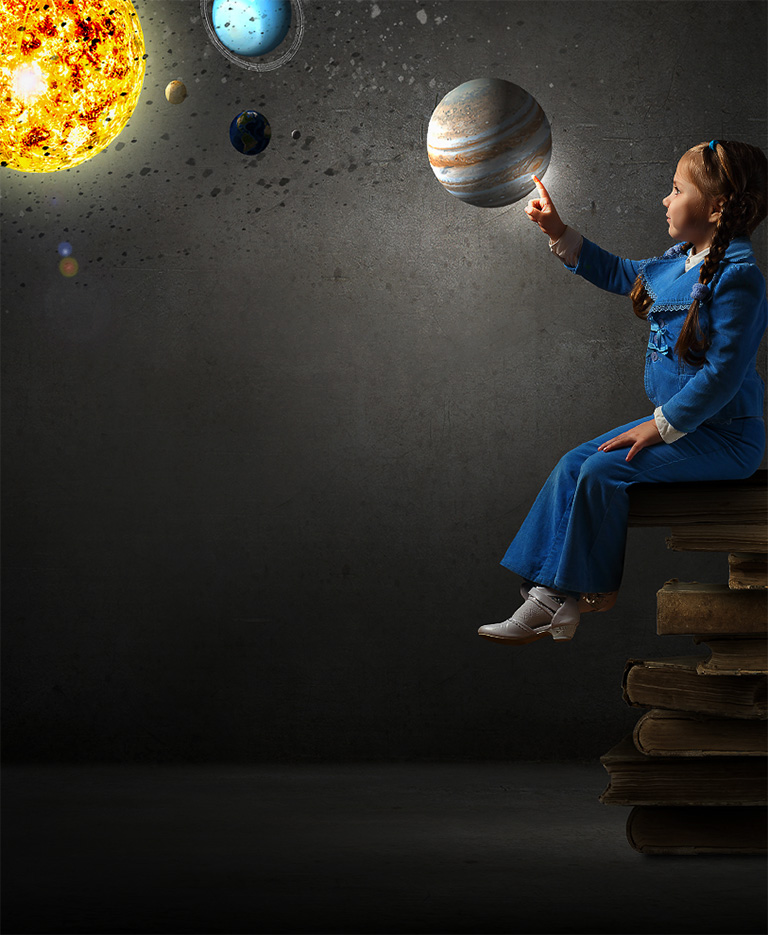
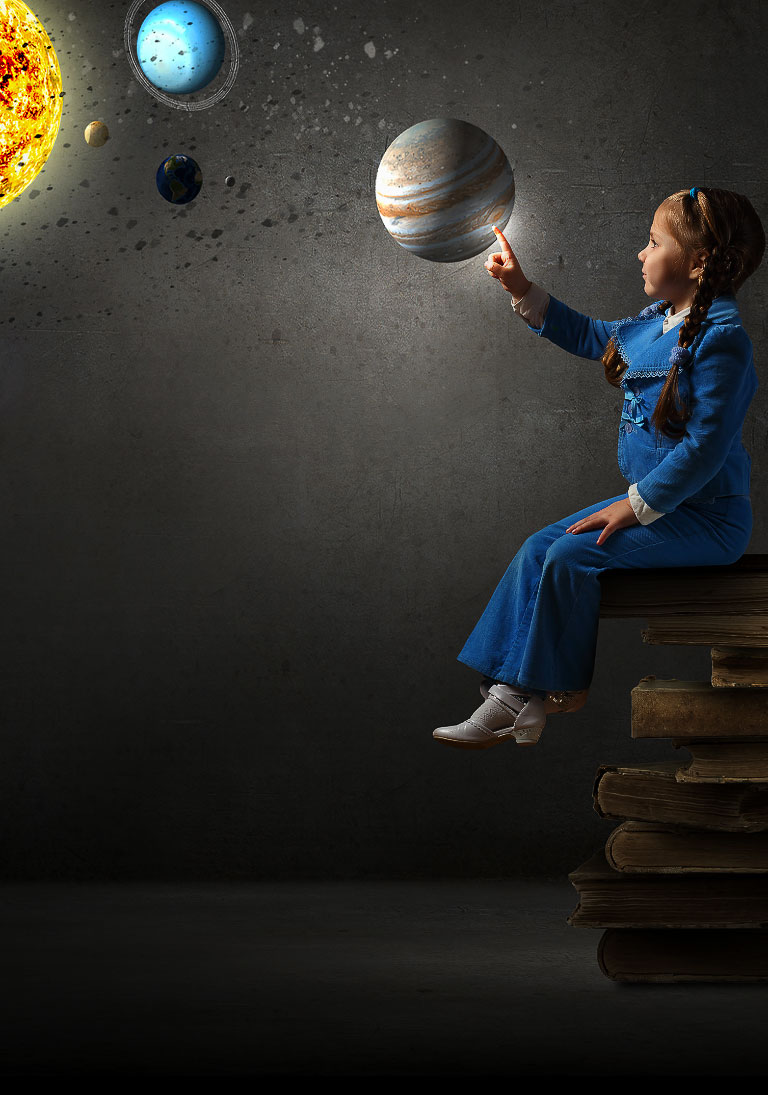
saving in case of power outage

diff --git a/css/stylesheet.css b/css/stylesheet.css
@@ -1,8 +1,33 @@
+
+/*?--------CSS RESET------------*/
+/*?-----------------------------*/
+html, body, div, span, applet, object, iframe,
+h1, h2, h3, h4, h5, h6, p, blockquote, pre,
+a, abbr, acronym, address, big, cite, code,
+del, dfn, em, img, ins, kbd, q, s, samp,
+small, strike, strong, sub, sup, tt, var,
+b, u, i, center,
+dl, dt, dd, ol, ul, li,
+fieldset, form, label, legend,
+table, caption, tbody, tfoot, thead, tr, th, td,
+article, aside, canvas, details, embed, 
+figure, figcaption, footer, header, hgroup, 
+menu, nav, output, ruby, section, summary,
+time, mark, audio, video {
+	margin: 0;
+	padding: 0;
+	border: 0;
+  vertical-align: baseline;
+  list-style-type: none;
+  text-decoration: none;
+}
+
 /*!------------ Universal Fixes ---------------- */
 /*!----------------------------------------------*/
 html {
   box-sizing: border-box;
   font-size: 16px;
+  font-family: var(--exo);
 }
 *,
 *:before,
@@ -13,7 +38,7 @@ html {
 /* Color styles (extracted from Figma)*/
 :root {
   --white: rgba(239, 239, 239, 1);
-  --black: rgba(13, 19, 23, 1);
+  --black: rgba(21, 29, 34, 1);
   --orange: rgba(234, 134, 43, 1);
   --turquoise: rgba(0, 255, 204, 1);
   --turquoise-dark: rgba(52, 183, 167, 1);
@@ -21,7 +46,7 @@ html {
   --whitetrans: rgba(239, 239, 239, 0.7);
   --blacktrans: rgba(49, 54, 58, 0.8);
   /* Text style */
-  --exo: "Exo 2", Arial, sans-serif;
+  --exo: "Exo 2", Arial, sans-serif; /* Fallbacks in-case clamp doesnt work */
   --footertos: 0.875rem;
   --h1: 2.5rem;
   --h2: 2rem;
@@ -32,7 +57,26 @@ html {
   --footerbody: 0.875rem;
   --buttontext: 1.125rem;
 } 
-@media only screen and (min-width: 768px) {
+@media only screen and (min-width: 768px) { /* Fallbacks in-case clamp doesnt work */
+  :root {
+    --h1: 3.679rem;
+    --h2: 2.519rem;
+    --h3: 1.782rem;
+    --h4: 1.571rem;
+    --h5: 1.383rem;
+    --bodytext: 1.125rem;
+    --footerbody: 1rem;
+    --buttontext: 1.25rem;
+  }
+}
+@media only screen and (min-width: 1368px) { /* Fallbacks in-case clamp doesnt work */
+  :root {
+    --h1: 5.625rem;
+    --h2: 3.375rem;
+    --h3: 2.25rem;
+    --h4: 1.688rem;
+    --h5: 1.5rem;
+  }
 }
 @supports (font-size: clamp(1rem, 2vw, 3rem)) {
   :root {
@@ -47,15 +91,12 @@ html {
   }
 }
 
-
+/*? Font Styling */
 
 h1 {
-  font-family: var(--exo);
   font-size: var(--h1);
   font-weight: 800;
-  color: var(--black);
   line-height: 82.69%;
-  letter-spacing: 0.02em;
 }
 
 h1 > span {
@@ -63,56 +104,120 @@ h1 > span {
   letter-spacing: 0.045em;
 }
 h2 {
-  font-family: var(--exo);
   font-size: var(--h2);
   font-weight: 800;
-  letter-spacing: 0.02em;
 }
 h3 {
-  font-family: var(--exo);
   font-size: var(--h3);
   font-weight: 700;
-  letter-spacing: 0.02em;
 }
 h4 {
-  font-family: var(--exo);
   font-size: var(--h4);
   font-weight: 700;
-  letter-spacing: 0.015em;
 }
-.page-container {
-  margin: 0 auto 0 auto;
-  width: 100vw;
+h5 {
+  font-size: var(--h5);
+  font-weight: 600;
+}
+a {
+  color: inherit;
+  font-size: var(--buttontext);
+  font-weight: 600;
+}
+span {
+  font-size: inherit;
+  font-weight: inherit;
+  line-height: inherit;
+}
+.buttontext {
+  font-size: var(--buttontext);
+  font-weight: 700;
+  line-height: 160%;
+}
+p {
+  font-size: var(--bodytext);
+  font-weight: 400;
+  line-height: 166.7%;
+}
+.footerbody {
+  font-size: var(--footerbody);
+}
+h1, h2, h3, h4, h5, .buttontext {
+  letter-spacing: 0.02em;
+}
+/*? Universal Components */
+/* To align content along the same linearly scaling margin*/
+.section-container {
+  padding: 0 15px; /* Fallback for Firefox Android & Opera Android */
+  padding: 0 clamp(15px, -20.6672px + 9.9074vw, 122px);  
+  margin: 0 auto;
+  width: 100%;
   max-width: 1440px;
+  
 }
-
-.content-container {
-  padding: 0 clamp(15px, -1.2917rem + 9.9074vw, 122px) 0;
+/* Buttons */
+.cta {
+  color: var(--black);
+  display: flex;
+  justify-content: space-between;
+  align-items: center;
+  padding: 10px 20px; /* Fallback for Firefox Android & Opera Android */
+  padding: clamp(10px, 8.3328px + 0.4630vw, 15px) 20px;
+}
+.cta--turq {
+  background-color: var(--turquoise);
+}
+.cta--turq i {
+  margin-left: 20px;
+}
+.cta--orange {
+  background-color: var(--orange);
 }
 
 /*!----------HEADER------------*/
-nav {
+header {
   background-color: var(--black);
+  width: 100vw;
+}
+.navblock {
   display: flex;
   justify-content: space-between;
   align-items: center;
 }
-nav > img {
-  height: clamp(27.59px, 6.51vw, 50px);
+.navblock__logo {
+  height: 27.59px; /* Fallback for Firefox Android & Opera Android */
+  height: clamp(27.59px, 19.344px + 2.1289vw, 50px);
   width: auto;
+}
+.navblock__list {
+  color: var(--white);
+}
+/* Dropdown menu checkbox hack */
+#hamburger {
+  display: none;
 }
 
 /*!------------MAIN-------------*/
-.herowrap {
-  height: clamp(438px, 17.5467rem + 43.7037vw, 910px);
+
+.herobanner {
   width: 100%;
-  max-width: 1440px;
+  margin: 0 auto;
+  display: grid;
+  grid-template-areas: "hero";
 }
-.imagegradient {
+.herobanner--home .herobanner__imagewrap {
+  height: 513px; /* Fallback for Firefox Android & Opera Android */
+  height: clamp(513px, 380.5872px + 36.7704vw, 910px);
+  grid-area: hero;
+}
+.herobanner__gradient { /* To position gradient over image */
+  width: 100%;
+  height: 100%;
   position: relative;
   display: inline-block;
 }
-.imagegradient::after {
+
+.herobanner__gradient::after {
   content: '';
   position: absolute;
   left: 0;
@@ -122,9 +227,31 @@ nav > img {
   display: inline-block;
   background: linear-gradient(180deg, rgba(13, 19, 23, 0.1) 0%, #0D1317 100%);
 }
-.herobanner {
+.herobanner--home .herobanner__image {
   object-fit: cover;
-  object-position: top;
+  object-position: 70% 20%;
   height: 100%;
   width: 100%;
+}
+
+.herobanner__textblock {
+  margin-top: 145px; /* Fallback for Firefox Android & Opera Android */
+  margin-top: clamp(145px, 73.344px + 19.9067vw, 360px); /* With this top margin and bodytext bottom margin, the button will maintain        */
+  display: flex;                                          /* its distance from the bottom, scaling from 88px>120px.                           */ 
+  flex-flow: column;                                      /* This button is the one exception to my otherwise strict setup of margins/padding.*/
+  align-items: baseline;                                  /* This is due to image and text alignment. Couldn't have it both ways.             */
+  color: var(--white);
+  grid-area: hero;
+  z-index: 9999;
+}
+.herobanner__title--home {
+  margin-bottom: 15px; /* Fallback for Firefox Android & Opera Android */
+  margin-bottom: clamp(15px, 3.3328px + 3.2407vw, 50px);
+}
+.herobanner__bodytext {
+  font-size: var(--bodytext);
+  margin-bottom: 60px; /* Fallback for Firefox Android & Opera Android */
+  width: 270px; /* Fallback for Firefox Android & Opera Android */
+  margin-bottom: clamp(60px, 46.6672px + 3.7037vw, 100px);
+  width: clamp(270px, 143.7872 + 35.0815vw, 649px);
 }

diff --git a/index.html b/index.html
@@ -5,54 +5,46 @@
     <meta name="viewport" content="width=device-width, initial-scale=1.0" />
     <title>Home - Community Science Museum</title>
     <meta author="Torbjørn Haukås" />
-    <meta
-      name="description"
-      content="Welcome to the Community Science Museum, Bergen. Join us and experience the frontier of science through our interactive displays and award-winning exhibitions."
-    />
+    <meta name="description" content="Welcome to the Community Science Museum, Bergen. Join us and experience the frontier of science through our interactive displays and award-winning exhibitions."/>
     <link rel="preconnect" href="https://fonts.gstatic.com" />
     <link rel="stylesheet" href="css/normalize.css" />
-    <link
-      href="https://fonts.googleapis.com/css2?family=Exo+2:wght@300..900&display=swap"
-      rel="stylesheet"
-    />
+    <link href="https://fonts.googleapis.com/css2?family=Exo+2:wght@300..900&display=swap" rel="stylesheet"/>
     <link rel="stylesheet" href="css/stylesheet.css" />
     <link rel="icon" type="image/png" sizes="32x32" href="favicon.png" />
     <link rel="icon" type="image/png" sizes="16x16" href="favicon.png" />
     <script src="https://kit.fontawesome.com/ea2405e1e7.js" crossorigin="anonymous"></script>
   </head>
   <body>
-    <div class="page-container">
       <header>
-        <nav class="content-container">
-          <img src="images/logo-desktop.svg" alt="Our Logo" />
-          <ul class="navbuttons">
-            <li><a href="visit.html">VISIT</a></li>
-            <li><a href="exhibits.html">EXHIBITIONS</a></li>
-            <li><a href="getinvolved.html">GET INVOLVED</a></li>
-            <li><a href="aboutus.html">ABOUT US</a></li>
-            <li><a href="aboutus.html#contactform">CONTACT US</a></li>
+        <nav class="section-container navblock">
+          <img class="navblock__logo" src="images/logo-desktop.svg" alt="Our Logo"/>
+          <input type="checkbox" name="checkbox-hack" id="hamburger">
+          <ul class="navblock__list navblock__list--home">
+            <li class="navblock__button1"><a href="visit.html">VISIT</a></li>
+            <li class="navblock__button2"><a href="exhibits.html">EXHIBITIONS</a></li>
+            <li class="navblock__button3"><a href="getinvolved.html">GET INVOLVED</a></li>
+            <li class="navblock__button4"><a href="aboutus.html">ABOUT US</a></li>
+            <li class="navblock__button5"><a href="aboutus.html#contactform">CONTACT US</a></li>
           </ul>
         </nav>
       </header>
       <main>
-        <div class="herowrap">
-          <picture class="imagegradient">
-            <source media="(max-width: 767px)" srcset="images/homebanner-768w.jpg 768w">
-            <source media="(min-width: 768px)" srcset="images/homebanner-1440w.jpg 1440px">
-            <img class="herobanner"src="images/homebanner-1440w.jpg"alt="Young girl in blue clothes, sitting on a stack of books while playing with the solar system"/>
-          </picture>
+        <section class="herobanner herobanner--home">
+          <div class="herobanner__imagewrap">
+            <picture class="herobanner__gradient">
+              <source media="(max-width: 767px)" srcset="images/homebanner-768w.jpg 768w">
+              <source media="(min-width: 768px)" srcset="images/homebanner-2560w.jpg 2560w">
+              <img class="herobanner__image" src="images/homebanner-2560w.jpg"alt="Young girl in blue clothes, sitting on a stack of books while playing with the solar system"/>
+            </picture>
+          </div>
+        <div class="section-container herobanner__textblock">
+          <h1 class="herobanner__title herobanner__title--home">
+            EXPLORE THE <span>BOUNDARIES</span>
+          </h1>
+          <p class="herobanner__bodytext">Join us at the Community Science Museum and explore science in a new and exciting way.</p>
+          <a class="cta cta--turq herobanner__cta" href="visit.html"><span class="buttontext">PLAN YOUR VISIT</span><i class="fas fa-chevron-right"></i></a>
         </div>
-        <h1 class="hometitle">
-          EXPLORE THE <span class="boundaries">BOUNDARIES</span>
-        </h1>
-        <h2>HEADER 2</h2>
-        <h3>HEADER 3</h3>
-        <h4>HEADER 4</h4>
-        <h5>HEADER 5</h5>
-        <p>bodytext</p>
-        <p>footerbody</p>
-        <p>buttontext</p>
+      </section>
       </main>
-    </div>
   </body>
 </html>
